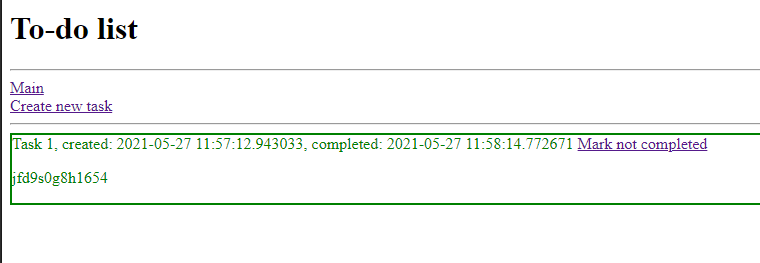
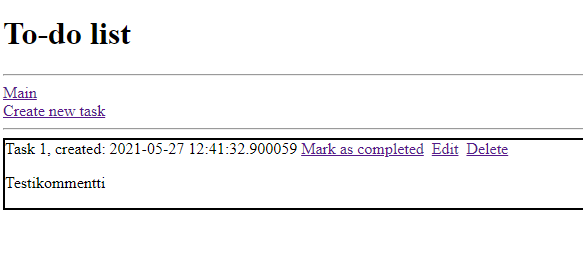
delete

Changed region(s): [[0.0, 0.0, 1.0, 1.0]]

diff --git a/35-flask-cr-6/templates/index.html b/35-flask-cr-6/templates/index.html
@@ -5,10 +5,10 @@
 <div style = "border:2px; border-style: solid; {% if task.completed %}color: green{% endif %}">
     <label>Task {{ task.id }},  created: {{ task.created }}{% if task.completed %}, completed: {{ task.completed }}{% endif %}</label>
     {% if task.completed %}
-        <a href="/{{ task.id }}/complete">Mark not completed</a>
+        <a href="/{{ task.id }}/complete">Mark not completed</a>&nbsp;&nbsp;<a href="/{{ task.id }}/delete">Delete</a>
     {% endif %}
     {% if not task.completed %}
-        <a href="/{{ task.id }}/complete">Mark as completed</a>&nbsp;&nbsp;<a href="/{{ task.id }}/edit">Edit</a>
+        <a href="/{{ task.id }}/complete">Mark as completed</a>&nbsp;&nbsp;<a href="/{{ task.id }}/edit">Edit</a>&nbsp;&nbsp;<a href="/{{ task.id }}/delete">Delete</a>
     {% endif %}
     <p>{{ task.content }}</p>
 </div>

diff --git a/35-flask-cr-6/flask-cr-6.py b/35-flask-cr-6/flask-cr-6.py
@@ -54,10 +54,18 @@ def complete(id = None):
     task = Task.query.get_or_404(id)
     if not task.completed: 
         task.completed = datetime.utcnow()
-        flash('Task id marked as completed')
+        flash(f'Task {id} marked as completed')
     else:
         task.completed = None
-        flash('Task id marked as not completed')
+        flash(f'Task {id} marked as not completed')
+    db.session.commit()
+    return redirect('/')
+
+@app.route('/<int:id>/delete')
+def delTask(id = None):
+    task = Task.query.get_or_404(id)
+    db.session.delete(task)
+    flash(f'Task {id} marked as deleted')
     db.session.commit()
     return redirect('/')
 
